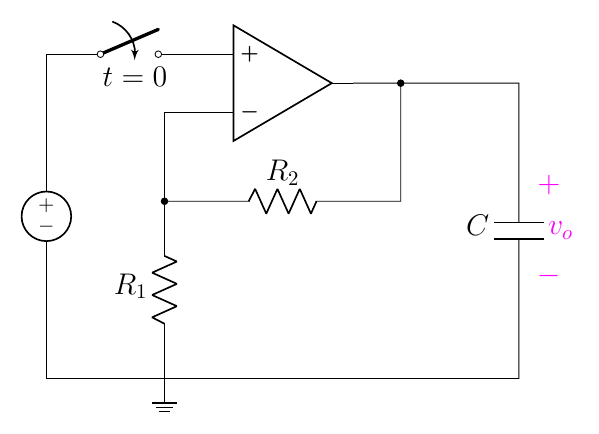
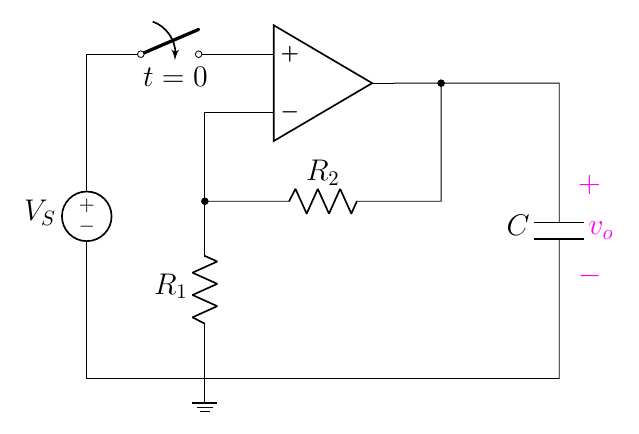
edit 7.68

diff --git a/2.5 First-Order Op Amp/7.7 First Order Op-Amp Circuit/7.68(new).tex b/2.5 First-Order Op Amp/7.7 First Order Op-Amp Circuit/7.68(new).tex
@@ -6,7 +6,7 @@
 
 
     \draw(0,0) 
-        to[V] ++(0,0 |- oa.+)
+        to[V,l=\vsname{}] ++(0,0 |- oa.+)
         to[ccgsw] (oa.+);
     \draw(2,0) 
         to[R,l=\rname{1}] ++(0,3)
